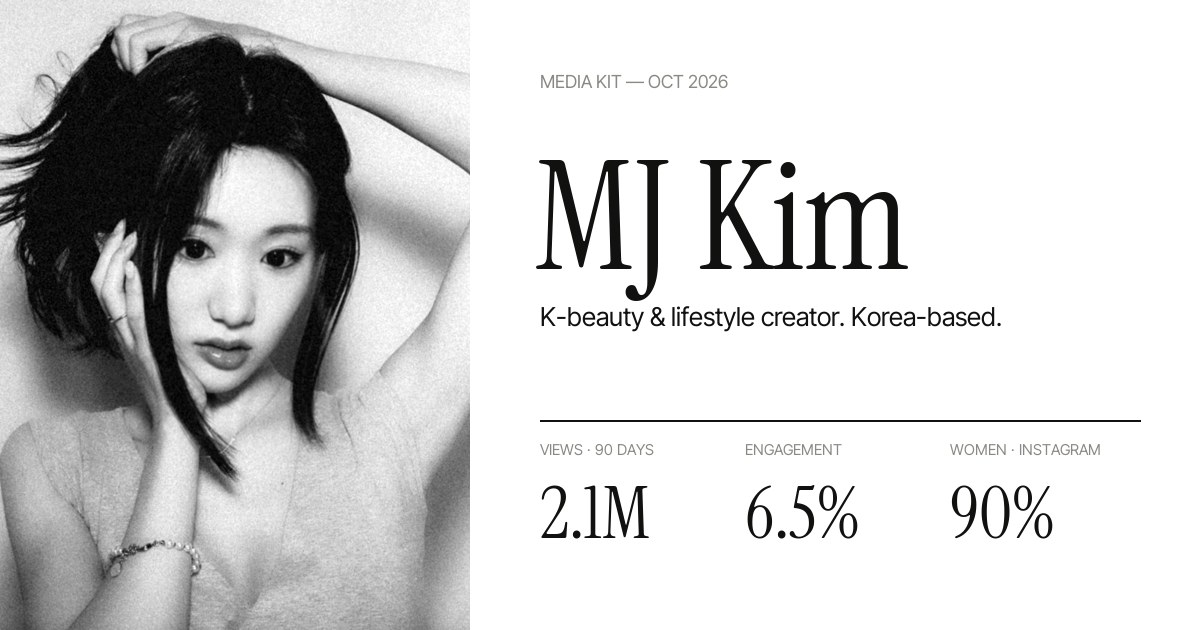
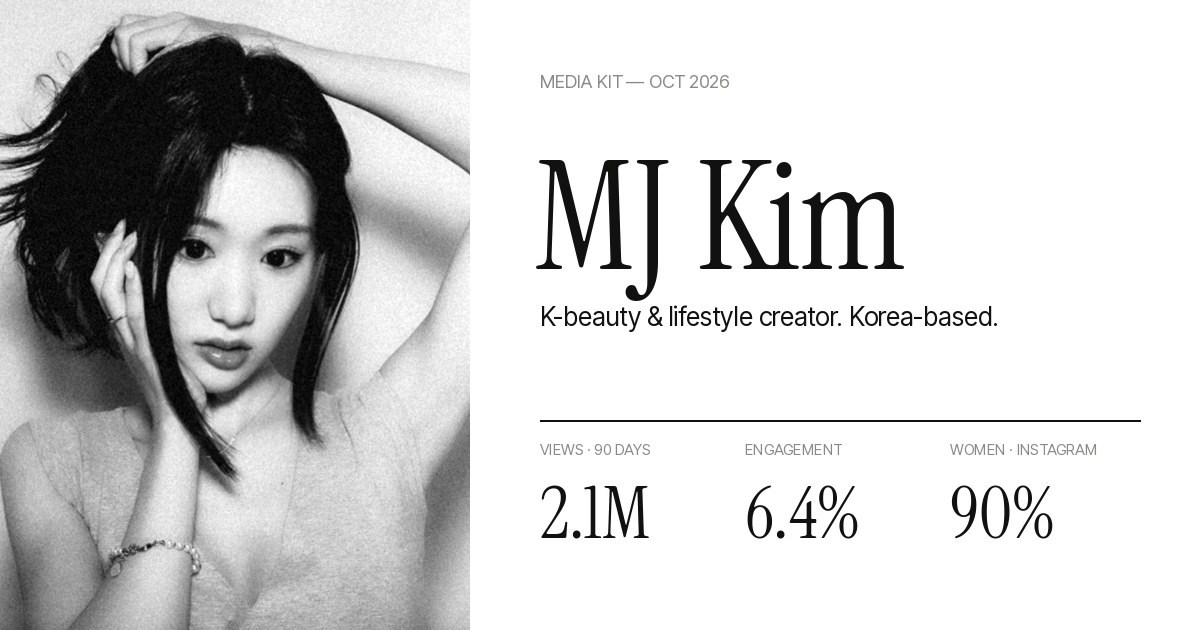
stats 2026-10-31: 52.7K followers, 2.1M views/90d, 6.4% engagement

diff --git a/index.html b/index.html
@@ -362,7 +362,7 @@ footer p { margin: 0; font-size: 12px; line-height: 1.6; color: var(--grey); max
         <div class="strip">
           <div><span class="lab"><span class="en">Followers</span><span class="ko" lang="ko">팔로워</span></span><span class="num"><span class="en" data-k="followers_total">52.7K</span><span class="ko" data-k="followers_total.ko">5.27만</span></span></div>
           <div><span class="lab"><span class="en">Views · 90 days</span><span class="ko" lang="ko">90일 조회수</span></span><span class="num"><span class="en" data-k="views90">2.1M</span><span class="ko" data-k="views90.ko">210만</span></span></div>
-          <div><span class="lab"><span class="en">Engagement</span><span class="ko" lang="ko">참여율</span></span><span class="num" data-k="er">6.5%</span></div>
+          <div><span class="lab"><span class="en">Engagement</span><span class="ko" lang="ko">참여율</span></span><span class="num" data-k="er">6.4%</span></div>
           <div><span class="lab"><span class="en">Women · IG</span><span class="ko" lang="ko">여성 · 인스타</span></span><span class="num">90%</span></div>
           <div><span class="lab"><span class="en">18–34 · TikTok</span><span class="ko" lang="ko">18–34세 · 틱톡</span></span><span class="num">77%</span></div>
         </div>
@@ -398,8 +398,8 @@ footer p { margin: 0; font-size: 12px; line-height: 1.6; color: var(--grey); max
       <p><span class="en">TikTok views in the last 90 days.</span><span class="ko" lang="ko">최근 90일 틱톡 조회수.</span></p>
     </div>
     <div class="figs rv">
-      <div><div class="num"><span class="en" data-k="typical">18K</span><span class="ko" data-k="typical.ko">1.8만</span></div><p><span class="en">typical views per video, all platforms</span><span class="ko" lang="ko">영상 1개당 일반 조회수, 전 플랫폼 합산</span></p></div>
-      <div><div class="num" data-k="er">6.5%</div><p><span class="en">engagement on TikTok</span><span class="ko" lang="ko">틱톡 참여율</span></p></div>
+      <div><div class="num"><span class="en" data-k="typical">16.2K</span><span class="ko" data-k="typical.ko">1.62만</span></div><p><span class="en">typical views per video, all platforms</span><span class="ko" lang="ko">영상 1개당 일반 조회수, 전 플랫폼 합산</span></p></div>
+      <div><div class="num" data-k="er">6.4%</div><p><span class="en">engagement on TikTok</span><span class="ko" lang="ko">틱톡 참여율</span></p></div>
       <div><div class="num" data-k="over50k">9</div><p><span class="en">videos past 50K views in 90 days</span><span class="ko" lang="ko">90일 동안 5만 뷰를 넘긴 영상</span></p></div>
     </div>
     <div class="pairs rv">
@@ -419,8 +419,8 @@ footer p { margin: 0; font-size: 12px; line-height: 1.6; color: var(--grey); max
     <h2 class="rv"><span class="en">Her brand videos get saved <span data-k="brand_x">1.9</span>× as often as her own.</span><span class="ko" lang="ko">브랜드 영상은 평소 영상보다 <span data-k="brand_x">1.9</span>배 더 자주 저장됩니다.</span></h2>
     <div class="brand-row">
       <a class="reel-tile rv" href="https://www.tiktok.com/@likemjkim/video/7697993481683258655" target="_blank" rel="noopener"><div class="frame"><img src="reels/b-epii-barrier.jpg" alt="epii skin-barrier TikTok" width="432" height="768" loading="lazy"><video muted playsinline loop preload="none" data-src="reels/b-epii-barrier.mp4" aria-hidden="true"></video></div><div class="cap"><span class="lab">epii</span><span class="num"><span class="en" data-k="tt:7697993481683258655:views">243K views</span><span class="ko" data-k="tt:7697993481683258655:views.ko">조회수 24.3만</span></span></div></a>
-      <a class="reel-tile rv" href="https://www.tiktok.com/@likemjkim/video/7690425915339230495" target="_blank" rel="noopener"><div class="frame"><img src="reels/b-linave.jpg" alt="LIN AVENUE baseball cap TikTok" width="432" height="768" loading="lazy"><video muted playsinline loop preload="none" data-src="reels/b-linave.mp4" aria-hidden="true"></video></div><div class="cap"><span class="lab">LIN AVENUE</span><span class="num"><span class="en" data-k="tt:7690425915339230495:saves">946 saves</span><span class="ko" data-k="tt:7690425915339230495:saves.ko">저장 946회</span></span></div></a>
-      <a class="reel-tile rv" href="https://www.tiktok.com/@likemjkim/video/7700989188619095326" target="_blank" rel="noopener"><div class="frame"><img src="reels/b-epii-hpt6.jpg" alt="epii anti-aging TikTok" width="432" height="768" loading="lazy"><video muted playsinline loop preload="none" data-src="reels/b-epii-hpt6.mp4" aria-hidden="true"></video></div><div class="cap"><span class="lab">epii</span><span class="num"><span class="en" data-k="tt:7700989188619095326:views">39.7K views</span><span class="ko" data-k="tt:7700989188619095326:views.ko">조회수 3.97만</span></span></div></a>
+      <a class="reel-tile rv" href="https://www.tiktok.com/@likemjkim/video/7690425915339230495" target="_blank" rel="noopener"><div class="frame"><img src="reels/b-linave.jpg" alt="LIN AVENUE baseball cap TikTok" width="432" height="768" loading="lazy"><video muted playsinline loop preload="none" data-src="reels/b-linave.mp4" aria-hidden="true"></video></div><div class="cap"><span class="lab">LIN AVENUE</span><span class="num"><span class="en" data-k="tt:7690425915339230495:saves">958 saves</span><span class="ko" data-k="tt:7690425915339230495:saves.ko">저장 958회</span></span></div></a>
+      <a class="reel-tile rv" href="https://www.tiktok.com/@likemjkim/video/7700989188619095326" target="_blank" rel="noopener"><div class="frame"><img src="reels/b-epii-hpt6.jpg" alt="epii anti-aging TikTok" width="432" height="768" loading="lazy"><video muted playsinline loop preload="none" data-src="reels/b-epii-hpt6.mp4" aria-hidden="true"></video></div><div class="cap"><span class="lab">epii</span><span class="num"><span class="en" data-k="tt:7700989188619095326:views">48.3K views</span><span class="ko" data-k="tt:7700989188619095326:views.ko">조회수 4.83만</span></span></div></a>
       <a class="reel-tile rv" href="https://www.tiktok.com/@likemjkim/video/7694258473701313822" target="_blank" rel="noopener"><div class="frame"><img src="reels/b-dasique.jpg" alt="dasique blush TikTok" width="432" height="768" loading="lazy"><video muted playsinline loop preload="none" data-src="reels/b-dasique.mp4" aria-hidden="true"></video></div><div class="cap"><span class="lab">dasique</span><span class="num"><span class="en">Blush</span><span class="ko">블러셔</span></span></div></a>
       <a class="reel-tile rv" href="https://www.tiktok.com/@likemjkim/video/7687236497573055775" target="_blank" rel="noopener"><div class="frame"><img src="reels/b-anaze.jpg" alt="ANAZE hair TikTok" width="432" height="768" loading="lazy"><video muted playsinline loop preload="none" data-src="reels/b-anaze.mp4" aria-hidden="true"></video></div><div class="cap"><span class="lab">ANAZE</span><span class="num"><span class="en">Hair care</span><span class="ko">헤어 케어</span></span></div></a>
       <a class="reel-tile rv" href="https://www.tiktok.com/@likemjkim/video/7693007095871900958" target="_blank" rel="noopener"><div class="frame"><img src="reels/b-dralthea.jpg" alt="Dr. Althea makeup TikTok" width="432" height="768" loading="lazy"><video muted playsinline loop preload="none" data-src="reels/b-dralthea.mp4" aria-hidden="true"></video></div><div class="cap"><span class="lab">Dr. Althea</span><span class="num"><span class="en">Makeup</span><span class="ko">메이크업</span></span></div></a>
@@ -437,13 +437,13 @@ footer p { margin: 0; font-size: 12px; line-height: 1.6; color: var(--grey); max
       <div class="rail-wrap">
         <div class="rail">
           <a class="reel-tile" href="https://www.instagram.com/reel/DdWrM6AJA7b/" target="_blank" rel="noopener"><div class="frame"><img src="reels/o-pov.jpg" alt="POV girl shopping Reel" width="432" height="768" loading="lazy"><video muted playsinline loop preload="none" data-src="reels/o-pov.mp4" aria-hidden="true"></video></div><div class="cap"><span class="lab">Instagram</span><span class="num"><span class="en" data-k="ig:DdWrM6AJA7b:views">1.2M views</span><span class="ko" data-k="ig:DdWrM6AJA7b:views.ko">조회수 120만</span></span></div></a>
-          <a class="reel-tile" href="https://www.tiktok.com/@likemjkim/video/7699474972376435999" target="_blank" rel="noopener"><div class="frame"><img src="reels/o-cafe.jpg" alt="Seoul café TikTok" width="432" height="768" loading="lazy"><video muted playsinline loop preload="none" data-src="reels/o-cafe.mp4" aria-hidden="true"></video></div><div class="cap"><span class="lab">TikTok</span><span class="num"><span class="en" data-k="tt:7699474972376435999:views">394K views</span><span class="ko" data-k="tt:7699474972376435999:views.ko">조회수 39.4만</span></span></div></a>
+          <a class="reel-tile" href="https://www.tiktok.com/@likemjkim/video/7699474972376435999" target="_blank" rel="noopener"><div class="frame"><img src="reels/o-cafe.jpg" alt="Seoul café TikTok" width="432" height="768" loading="lazy"><video muted playsinline loop preload="none" data-src="reels/o-cafe.mp4" aria-hidden="true"></video></div><div class="cap"><span class="lab">TikTok</span><span class="num"><span class="en" data-k="tt:7699474972376435999:views">407K views</span><span class="ko" data-k="tt:7699474972376435999:views.ko">조회수 40.7만</span></span></div></a>
           <a class="reel-tile" href="https://www.tiktok.com/@likemjkim/video/7680553747189091614" target="_blank" rel="noopener"><div class="frame"><img src="reels/o-foundation.jpg" alt="Olive Young foundation TikTok" width="432" height="768" loading="lazy"><video muted playsinline loop preload="none" data-src="reels/o-foundation.mp4" aria-hidden="true"></video></div><div class="cap"><span class="lab">TikTok</span><span class="num"><span class="en" data-k="tt:7680553747189091614:saves">7.6K saves</span><span class="ko" data-k="tt:7680553747189091614:saves.ko">저장 7,600회</span></span></div></a>
           <a class="reel-tile" href="https://www.tiktok.com/@likemjkim/video/7680177353418427679" target="_blank" rel="noopener"><div class="frame"><img src="reels/o-dance.jpg" alt="Dance trend TikTok" width="432" height="768" loading="lazy"><video muted playsinline loop preload="none" data-src="reels/o-dance.mp4" aria-hidden="true"></video></div><div class="cap"><span class="lab">TikTok</span><span class="num"><span class="en" data-k="tt:7680177353418427679:views">251K views</span><span class="ko" data-k="tt:7680177353418427679:views.ko">조회수 25.1만</span></span></div></a>
-          <a class="reel-tile" href="https://www.instagram.com/reel/DcT0TVyylpx/" target="_blank" rel="noopener"><div class="frame"><img src="reels/o-gm.jpg" alt="Gentle Monster Reel" width="432" height="768" loading="lazy"><video muted playsinline loop preload="none" data-src="reels/o-gm.mp4" aria-hidden="true"></video></div><div class="cap"><span class="lab">Instagram</span><span class="num"><span class="en" data-k="ig:DcT0TVyylpx:views">237K views</span><span class="ko" data-k="ig:DcT0TVyylpx:views.ko">조회수 23.7만</span></span></div></a>
+          <a class="reel-tile" href="https://www.instagram.com/reel/DcT0TVyylpx/" target="_blank" rel="noopener"><div class="frame"><img src="reels/o-gm.jpg" alt="Gentle Monster Reel" width="432" height="768" loading="lazy"><video muted playsinline loop preload="none" data-src="reels/o-gm.mp4" aria-hidden="true"></video></div><div class="cap"><span class="lab">Instagram</span><span class="num"><span class="en" data-k="ig:DcT0TVyylpx:views">238K views</span><span class="ko" data-k="ig:DcT0TVyylpx:views.ko">조회수 23.8만</span></span></div></a>
           <a class="reel-tile" href="https://www.tiktok.com/@likemjkim/video/7679222940566703374" target="_blank" rel="noopener"><div class="frame"><img src="reels/o-kdrama.jpg" alt="K-drama makeup TikTok" width="432" height="768" loading="lazy"><video muted playsinline loop preload="none" data-src="reels/o-kdrama.mp4" aria-hidden="true"></video></div><div class="cap"><span class="lab">TikTok</span><span class="num"><span class="en" data-k="tt:7679222940566703374:views">193K views</span><span class="ko" data-k="tt:7679222940566703374:views.ko">조회수 19.3만</span></span></div></a>
-          <a class="reel-tile" href="https://www.tiktok.com/@likemjkim/video/7680069002927901966" target="_blank" rel="noopener"><div class="frame"><img src="reels/o-lashes.jpg" alt="Lash clusters TikTok" width="432" height="768" loading="lazy"><video muted playsinline loop preload="none" data-src="reels/o-lashes.mp4" aria-hidden="true"></video></div><div class="cap"><span class="lab">TikTok</span><span class="num"><span class="en" data-k="tt:7680069002927901966:views">61.9K views</span><span class="ko" data-k="tt:7680069002927901966:views.ko">조회수 6.19만</span></span></div></a>
-          <a class="reel-tile" href="https://www.tiktok.com/@likemjkim/video/7686068822884797727" target="_blank" rel="noopener"><div class="frame"><img src="reels/o-blush.jpg" alt="Olive Young blush TikTok" width="432" height="768" loading="lazy"><video muted playsinline loop preload="none" data-src="reels/o-blush.mp4" aria-hidden="true"></video></div><div class="cap"><span class="lab">TikTok</span><span class="num"><span class="en" data-k="tt:7686068822884797727:views">56.6K views</span><span class="ko" data-k="tt:7686068822884797727:views.ko">조회수 5.66만</span></span></div></a>
+          <a class="reel-tile" href="https://www.tiktok.com/@likemjkim/video/7680069002927901966" target="_blank" rel="noopener"><div class="frame"><img src="reels/o-lashes.jpg" alt="Lash clusters TikTok" width="432" height="768" loading="lazy"><video muted playsinline loop preload="none" data-src="reels/o-lashes.mp4" aria-hidden="true"></video></div><div class="cap"><span class="lab">TikTok</span><span class="num"><span class="en" data-k="tt:7680069002927901966:views">62K views</span><span class="ko" data-k="tt:7680069002927901966:views.ko">조회수 6.2만</span></span></div></a>
+          <a class="reel-tile" href="https://www.tiktok.com/@likemjkim/video/7686068822884797727" target="_blank" rel="noopener"><div class="frame"><img src="reels/o-blush.jpg" alt="Olive Young blush TikTok" width="432" height="768" loading="lazy"><video muted playsinline loop preload="none" data-src="reels/o-blush.mp4" aria-hidden="true"></video></div><div class="cap"><span class="lab">TikTok</span><span class="num"><span class="en" data-k="tt:7686068822884797727:views">57.1K views</span><span class="ko" data-k="tt:7686068822884797727:views.ko">조회수 5.71만</span></span></div></a>
         </div>
       </div>
       <div class="progress" aria-hidden="true"><i></i></div>
@@ -481,8 +481,8 @@ footer p { margin: 0; font-size: 12px; line-height: 1.6; color: var(--grey); max
 
   <footer class="wrap">
     <p>
-      <span class="en">Public counts, <span data-k="asof">Oct 30 2026</span>. 90 days = <span data-k="win">Aug 1 – Oct 30</span>, <span data-k="tt_n">48</span> TikToks. Engagement = (likes + comments + shares + saves) ÷ views, median. Typical views = median per platform, summed. Brand videos = TikToks tagging a partner, <span data-k="brand_win">same 90 days</span>: saves per view, median <span data-k="paid_sr">1.7%</span> vs <span data-k="org_sr">0.9%</span> organic. Audience from Instagram, TikTok and YouTube analytics, Oct 2026.</span>
-      <span class="ko" lang="ko"><span data-k="asof.ko">2026년 10월 30일</span> 공개 수치 기준. 90일 = <span data-k="win.ko">8월 1일–10월 30일</span>, 틱톡 <span data-k="tt_n">48</span>개. 참여율 = (좋아요 + 댓글 + 공유 + 저장) ÷ 조회수, 중앙값. 일반 조회수 = 플랫폼별 중앙값의 합. 브랜드 영상 = 파트너를 태그한 틱톡, <span data-k="brand_win.ko">같은 90일</span>: 조회수 대비 저장 중앙값 <span data-k="paid_sr">1.7%</span> 대 일반 <span data-k="org_sr">0.9%</span>. 시청자 데이터는 2026년 10월 인스타그램·틱톡·유튜브 분석 기준.</span>
+      <span class="en">Public counts, <span data-k="asof">Oct 31 2026</span>. 90 days = <span data-k="win">Aug 3 – Oct 31</span>, <span data-k="tt_n">47</span> TikToks. Engagement = (likes + comments + shares + saves) ÷ views, median. Typical views = median per platform, summed. Brand videos = TikToks tagging a partner, <span data-k="brand_win">same 90 days</span>: saves per view, median <span data-k="paid_sr">1.7%</span> vs <span data-k="org_sr">0.9%</span> organic. Audience from Instagram, TikTok and YouTube analytics, Oct 2026.</span>
+      <span class="ko" lang="ko"><span data-k="asof.ko">2026년 10월 31일</span> 공개 수치 기준. 90일 = <span data-k="win.ko">8월 3일–10월 31일</span>, 틱톡 <span data-k="tt_n">47</span>개. 참여율 = (좋아요 + 댓글 + 공유 + 저장) ÷ 조회수, 중앙값. 일반 조회수 = 플랫폼별 중앙값의 합. 브랜드 영상 = 파트너를 태그한 틱톡, <span data-k="brand_win.ko">같은 90일</span>: 조회수 대비 저장 중앙값 <span data-k="paid_sr">1.7%</span> 대 일반 <span data-k="org_sr">0.9%</span>. 시청자 데이터는 2026년 10월 인스타그램·틱톡·유튜브 분석 기준.</span>
     </p>
     <p>© 2026 MJ Kim · @likemjkim</p>
   </footer>
